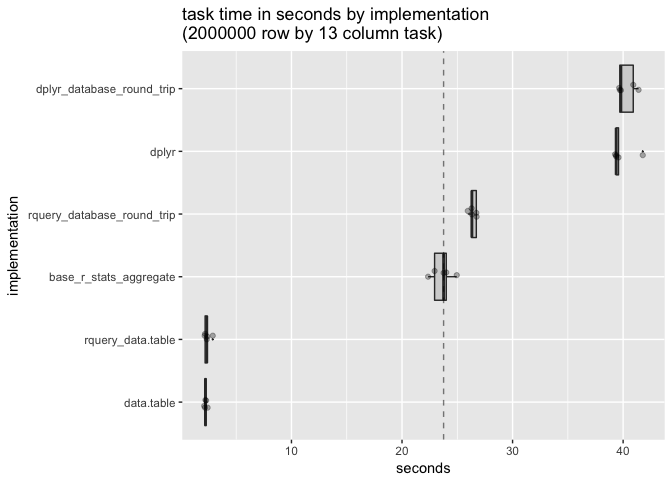
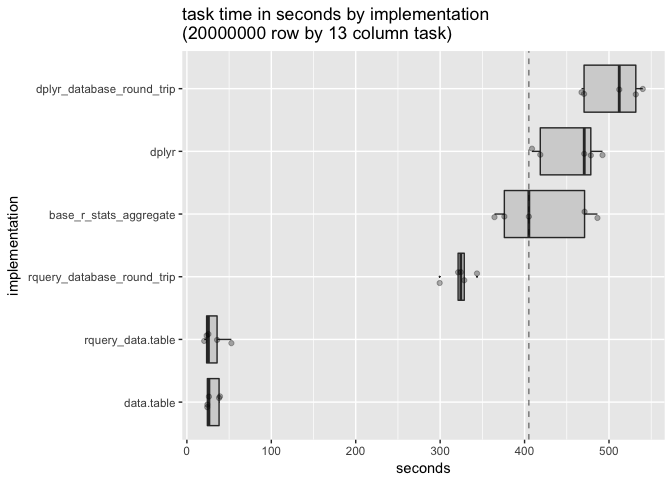
re-run at larger scale

diff --git a/extras/data_table.md b/extras/data_table.md
@@ -388,7 +388,7 @@ assertthat::are_equal(dLorig, dL)
 ``` r
 all_timings <- NULL
 
-for(nSubj in 10^(0:6)) {
+for(nSubj in 10^(0:7)) {
   print("******")
   print(paste("nSubj", nSubj))
   
@@ -422,121 +422,138 @@ for(nSubj in 10^(0:6)) {
     ## [1] "nSubj 1"
     ## Unit: milliseconds
     ##                        expr        min         lq       mean     median
-    ##  rquery_database_round_trip  70.282058  72.469500  79.849114  73.142262
-    ##           rquery_data.table   7.452056   8.087751   9.660426  10.261709
-    ##                  data.table   1.999957   2.353060   2.545551   2.353551
-    ##                       dplyr   6.700161   8.141722   8.693564   8.889595
-    ##   dplyr_database_round_trip 140.600498 161.671067 170.876028 171.440398
-    ##      base_r_stats_aggregate   2.553525   3.271092   3.574711   3.616765
+    ##  rquery_database_round_trip  69.029450  74.377429  82.379580  80.474265
+    ##           rquery_data.table   7.127195   8.760327   9.518508   8.897789
+    ##                  data.table   2.051221   2.754013   2.847343   2.853673
+    ##                       dplyr   6.272380   6.516135   8.181771   7.757346
+    ##   dplyr_database_round_trip 144.512507 144.927179 165.566531 173.417670
+    ##      base_r_stats_aggregate   2.615925   2.766526   3.074400   2.816567
     ##          uq        max neval
-    ##   83.364466  99.987285     5
-    ##   10.262934  12.237682     5
-    ##    2.440486   3.580699     5
-    ##    9.139235  10.597105     5
-    ##  183.722540 196.945636     5
-    ##    4.215769   4.216404     5
+    ##   89.696811  98.319946     5
+    ##    9.661508  13.145722     5
+    ##    2.929362   3.648446     5
+    ##   10.109809  10.253185     5
+    ##  174.707281 190.268019     5
+    ##    3.074001   4.098979     5
     ## [1] "******"
     ## [1] "nSubj 10"
     ## Unit: milliseconds
     ##                        expr        min         lq       mean     median
-    ##  rquery_database_round_trip  66.115183  74.571028  80.535474  79.747578
-    ##           rquery_data.table   9.144851   9.341991  10.203280   9.449925
-    ##                  data.table   2.261884   2.351525   2.863551   2.436394
-    ##                       dplyr   9.450341   9.460369  11.272210   9.545603
-    ##   dplyr_database_round_trip 132.966102 135.237660 161.882694 165.525793
-    ##      base_r_stats_aggregate   3.655355   3.986386   4.502577   4.467952
+    ##  rquery_database_round_trip  67.156440  73.060626  82.920443  80.510089
+    ##           rquery_data.table   7.570936   8.689809   9.777107   9.030820
+    ##                  data.table   2.426472   2.456784   2.618393   2.515110
+    ##                       dplyr  10.086663  10.414506  11.512049  10.575411
+    ##   dplyr_database_round_trip 135.769876 142.734392 162.646726 159.879842
+    ##      base_r_stats_aggregate   3.549091   4.463815   4.678033   4.823753
     ##          uq        max neval
-    ##   89.861591  92.381991     5
-    ##    9.966853  13.112781     5
-    ##    3.625221   3.642733     5
-    ##   12.761395  15.143342     5
-    ##  182.719002 192.964912     5
-    ##    4.736836   5.666355     5
+    ##   96.526495  97.348565     5
+    ##   10.630271  12.963699     5
+    ##    2.765184   2.928414     5
+    ##   11.969104  14.514560     5
+    ##  186.323910 188.525612     5
+    ##    5.153381   5.400124     5
     ## [1] "******"
     ## [1] "nSubj 100"
     ## Unit: milliseconds
     ##                        expr        min         lq       mean     median
-    ##  rquery_database_round_trip  67.422402  71.076670  74.024345  72.136057
-    ##           rquery_data.table   8.531425   8.600629   9.089157   8.905274
-    ##                  data.table   2.694509   2.716044   2.990792   3.013510
-    ##                       dplyr  10.084117  11.330607  13.642775  14.681082
-    ##   dplyr_database_round_trip 138.421512 145.312808 173.418781 191.359042
-    ##      base_r_stats_aggregate   4.840476   4.884449   5.797249   6.029146
+    ##  rquery_database_round_trip  68.280159  73.989883  73.936998  74.659266
+    ##           rquery_data.table   8.375911   8.378464  10.549381   8.692715
+    ##                  data.table   2.315128   2.681626   2.942087   2.686290
+    ##                       dplyr  10.857070  11.261897  13.411790  14.374825
+    ##   dplyr_database_round_trip 138.566279 147.701370 174.968423 194.220404
+    ##      base_r_stats_aggregate   4.273186   4.864971   5.635442   6.170974
     ##          uq        max neval
-    ##   78.919612  80.566986     5
-    ##    9.476156   9.932299     5
-    ##    3.121853   3.408043     5
-    ##   15.377460  16.740607     5
-    ##  193.879518 198.121025     5
-    ##    6.437601   6.794574     5
+    ##   75.820915  76.934769     5
+    ##   12.730262  14.569554     5
+    ##    2.742238   4.285151     5
+    ##   15.228917  15.336241     5
+    ##  196.047638 198.306423     5
+    ##    6.390031   6.478047     5
     ## [1] "******"
     ## [1] "nSubj 1000"
     ## Unit: milliseconds
     ##                        expr        min         lq       mean     median
-    ##  rquery_database_round_trip  91.690265  93.945856 118.259833 134.303865
-    ##           rquery_data.table  11.777830  12.029881  13.109822  12.760565
-    ##                  data.table   4.849465   5.339167   5.947016   5.408452
-    ##                       dplyr  43.118846  44.264693  49.278931  44.471337
-    ##   dplyr_database_round_trip 214.534733 219.498560 220.674008 220.553923
-    ##      base_r_stats_aggregate  14.231214  15.319441  19.527569  15.491673
-    ##          uq       max neval
-    ##  134.323624 137.03555     5
-    ##   13.303849  15.67699     5
-    ##    5.926275   8.21172     5
-    ##   45.273989  69.26579     5
-    ##  223.546086 225.23674     5
-    ##   24.579619  28.01590     5
+    ##  rquery_database_round_trip  94.986501 100.771336 118.889078 128.822785
+    ##           rquery_data.table   9.746145  10.946424  11.927772  11.016319
+    ##                  data.table   4.691801   5.407834   5.694072   5.435403
+    ##                       dplyr  42.611197  44.262719  50.811715  45.120315
+    ##   dplyr_database_round_trip 213.902981 220.829752 222.092339 222.388739
+    ##      base_r_stats_aggregate  14.211198  14.245266  19.065685  14.510214
+    ##         uq        max neval
+    ##  132.60659 137.258174     5
+    ##   11.81526  16.114708     5
+    ##    5.44712   7.488202     5
+    ##   49.51443  72.549909     5
+    ##  223.22590 230.114323     5
+    ##   25.25964  27.102103     5
     ## [1] "******"
     ## [1] "nSubj 10000"
     ## Unit: milliseconds
     ##                        expr       min        lq      mean    median
-    ##  rquery_database_round_trip 319.04613 320.72138 324.57940 322.59672
-    ##           rquery_data.table  33.27938  33.46148  57.96221  38.14410
-    ##                  data.table  29.17582  29.95408  33.32392  32.28594
-    ##                       dplyr 401.28211 449.43631 443.81507 452.92194
-    ##   dplyr_database_round_trip 459.30635 459.82237 487.78332 469.49951
-    ##      base_r_stats_aggregate 149.90993 151.29998 180.77225 151.55082
+    ##  rquery_database_round_trip 317.22013 318.06215 327.66363 322.86430
+    ##           rquery_data.table  31.45375  35.43023  57.98260  38.85422
+    ##                  data.table  28.94477  29.23703  33.47433  31.36060
+    ##                       dplyr 405.79107 454.09806 452.05943 457.46704
+    ##   dplyr_database_round_trip 459.03060 460.07174 477.24078 466.56148
+    ##      base_r_stats_aggregate 158.70025 160.63810 185.14380 166.09851
     ##         uq       max neval
-    ##  329.11238 331.42035     5
-    ##   46.16486 138.76122     5
-    ##   33.59021  41.61355     5
-    ##  455.24025 460.19472     5
-    ##  517.24159 533.04676     5
-    ##  224.43907 226.66145     5
+    ##  325.06523 355.10634     5
+    ##   45.92310 138.25168     5
+    ##   35.91055  41.91869     5
+    ##  457.64969 485.29128     5
+    ##  466.67314 533.86696     5
+    ##  219.04842 221.23373     5
     ## [1] "******"
     ## [1] "nSubj 1e+05"
     ## Unit: milliseconds
     ##                        expr       min        lq      mean    median
-    ##  rquery_database_round_trip 2536.1233 2571.7063 2591.0856 2591.3387
-    ##           rquery_data.table  272.6761  276.3677  285.3021  278.6558
-    ##                  data.table  289.5129  295.1952  309.0163  296.4627
-    ##                       dplyr 3990.7356 4125.8017 4114.5314 4127.9229
-    ##   dplyr_database_round_trip 3770.7715 3791.6872 3812.8853 3804.1543
-    ##      base_r_stats_aggregate 2345.7062 2386.9994 2429.6260 2414.5994
+    ##  rquery_database_round_trip 2562.9472 2638.2651 3176.6772 2638.4237
+    ##           rquery_data.table  276.6464  323.7509  330.4065  325.2370
+    ##                  data.table  290.1218  312.0355  324.5827  317.1223
+    ##                       dplyr 4124.8296 4140.0092 5096.0283 4174.3510
+    ##   dplyr_database_round_trip 3781.7411 3835.2941 4260.0795 4121.7297
+    ##      base_r_stats_aggregate 2223.9412 2257.1987 2824.7896 2260.4321
     ##         uq       max neval
-    ##  2626.8632 2629.3966     5
-    ##   298.3020  300.5089     5
-    ##   307.1364  356.7741     5
-    ##  4149.7745 4178.4220     5
-    ##  3815.3279 3882.4856     5
-    ##  2469.3592 2531.4657     5
+    ##  2885.0333 5158.7170     5
+    ##   344.4928  381.9053     5
+    ##   339.1800  364.4538     5
+    ##  6365.2965 6675.6551     5
+    ##  4457.4407 5104.1918     5
+    ##  2422.9427 4959.4331     5
     ## [1] "******"
     ## [1] "nSubj 1e+06"
     ## Unit: seconds
     ##                        expr       min        lq      mean    median
-    ##  rquery_database_round_trip 25.946029 26.298117 26.406245 26.320275
-    ##           rquery_data.table  2.150720  2.189799  2.387604  2.340513
-    ##                  data.table  2.107955  2.172632  2.238410  2.216478
-    ##                       dplyr 39.269384 39.366011 39.872973 39.369928
-    ##   dplyr_database_round_trip 39.640864 39.705289 40.291738 39.797655
-    ##      base_r_stats_aggregate 22.358983 22.946313 23.603838 23.761234
+    ##  rquery_database_round_trip 25.790816 26.236574 26.656177 27.000283
+    ##           rquery_data.table  2.107890  2.192299  2.604533  2.289485
+    ##                  data.table  2.115763  2.188365  2.279532  2.190283
+    ##                       dplyr 39.675550 40.776398 41.237920 40.779588
+    ##   dplyr_database_round_trip 42.433460 43.103537 43.767424 43.196339
+    ##      base_r_stats_aggregate 22.234256 22.258174 23.358680 22.677609
     ##         uq       max neval
-    ##  26.720343 26.746460     5
-    ##   2.378751  2.878236     5
-    ##   2.279337  2.415650     5
-    ##  39.582833 41.776712     5
-    ##  40.916120 41.398762     5
-    ##  24.001487 24.951174     5
+    ##  27.115695 27.137518     5
+    ##   2.833142  3.599851     5
+    ##   2.285832  2.617417     5
+    ##  41.125615 43.832448     5
+    ##  44.879094 45.224692     5
+    ##  23.807583 25.815779     5
+    ## [1] "******"
+    ## [1] "nSubj 1e+07"
+    ## Unit: seconds
+    ##                        expr       min        lq      mean    median
+    ##  rquery_database_round_trip 299.42903 321.26485 323.47056 324.49628
+    ##           rquery_data.table  20.52984  23.37411  31.57351  25.49861
+    ##                  data.table  24.10960  24.27099  30.34697  26.06031
+    ##                       dplyr 408.80455 418.61819 453.77822 470.67962
+    ##   dplyr_database_round_trip 467.47587 470.47306 504.37742 512.16376
+    ##      base_r_stats_aggregate 364.34942 376.03824 420.56751 405.05481
+    ##         uq       max neval
+    ##  328.53626 343.62639     5
+    ##   35.75514  52.70985     5
+    ##   38.11929  39.17465     5
+    ##  478.46271 492.32604     5
+    ##  531.76685 540.00756     5
+    ##  471.07160 486.32345     5
 
 ``` r
 saveRDS(all_timings, "all_timings.RDS")
@@ -566,12 +583,12 @@ knitr::kable(means)
 
 | expr                          |  mean\_time\_seconds|
 |:------------------------------|--------------------:|
-| data.table                    |             2.238410|
-| rquery\_data.table            |             2.387604|
-| base\_r\_stats\_aggregate     |            23.603838|
-| rquery\_database\_round\_trip |            26.406245|
-| dplyr                         |            39.872974|
-| dplyr\_database\_round\_trip  |            40.291738|
+| data.table                    |             30.34697|
+| rquery\_data.table            |             31.57351|
+| rquery\_database\_round\_trip |            323.47056|
+| base\_r\_stats\_aggregate     |            420.56751|
+| dplyr                         |            453.77822|
+| dplyr\_database\_round\_trip  |            504.37742|
 
 ``` r
 timings <- as.data.frame(timings)
